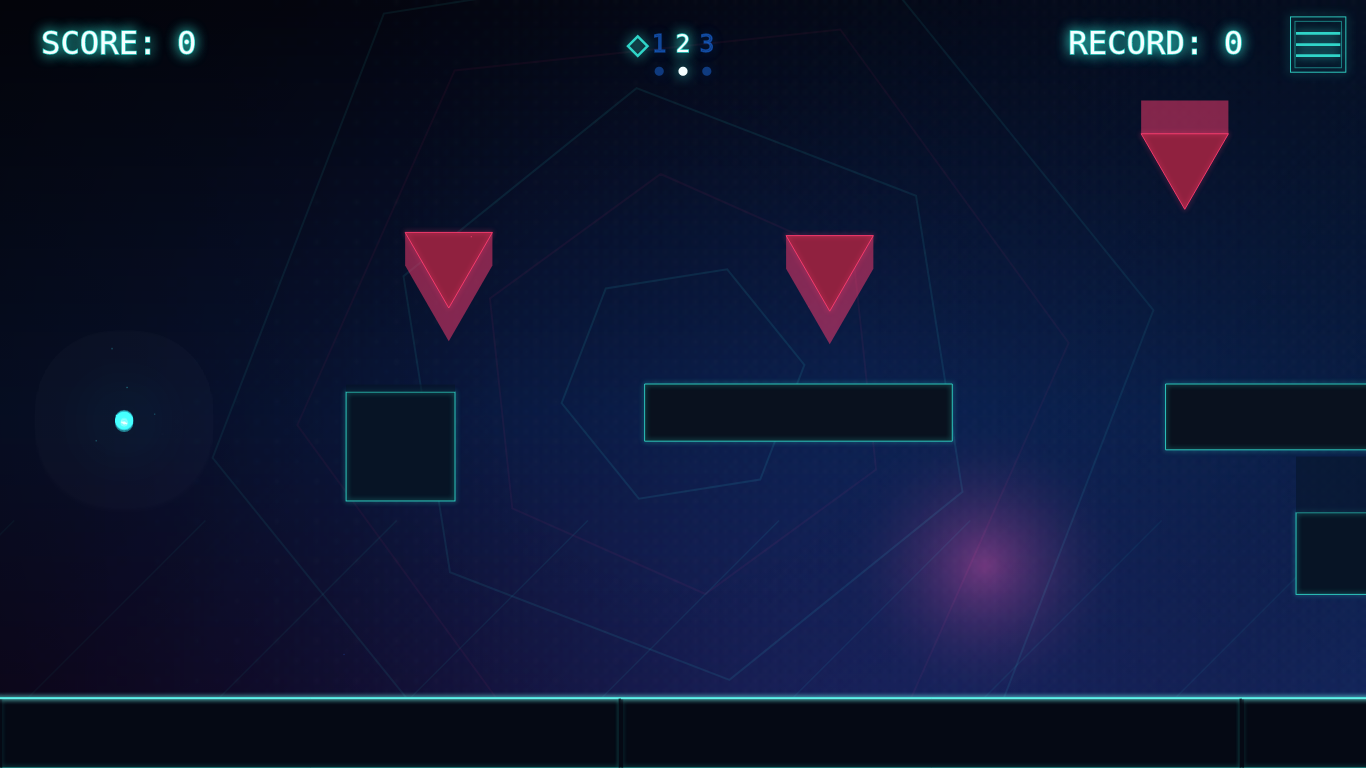
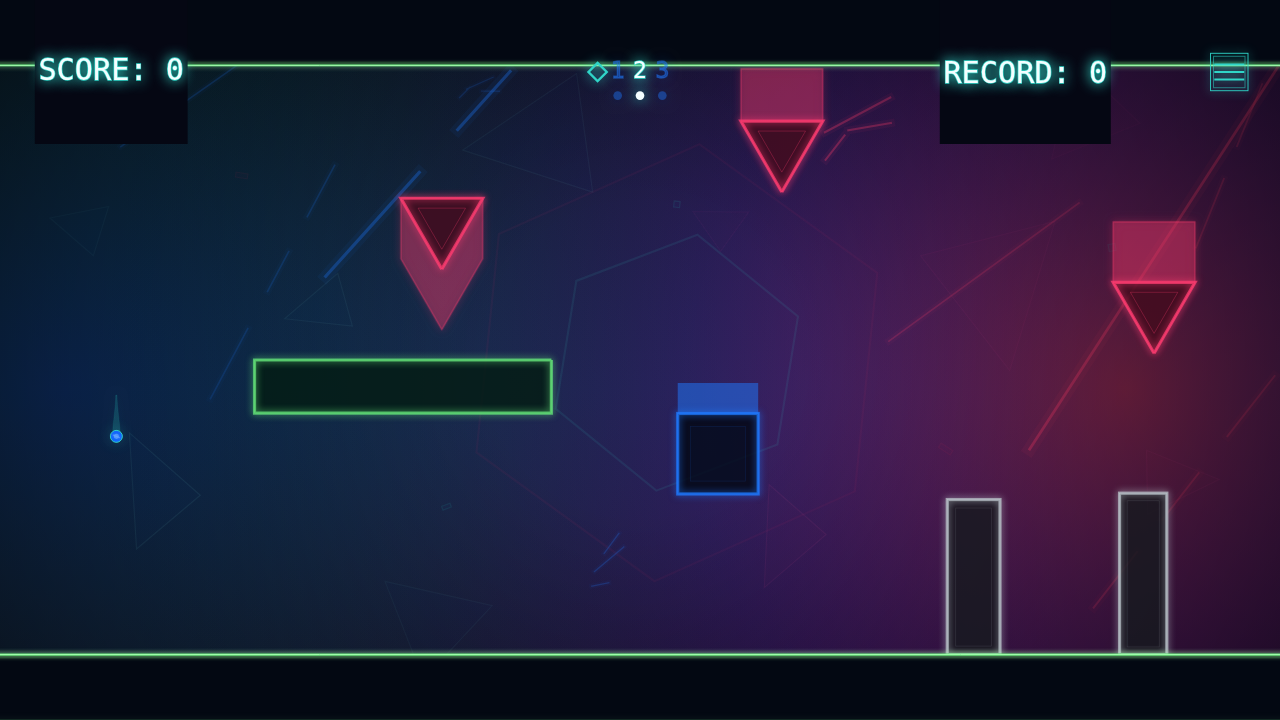
TASK-018: restore bad HUD stage indicator

diff --git a/sprites/scoretext.js b/sprites/scoretext.js
@@ -49,6 +49,9 @@ let scoreText =
 
         this.drawHudText(recordText, recordX, recordY, 'end')
 
+        if (version == 'bad')
+            this.drawStageIndicator(viewWidth, topY, fontSize)
+
         ctx.restore()
     },
     getRecordX: function(viewWidth)

diff --git a/progress.md b/progress.md
@@ -149,3 +149,4 @@ TASK-086: Added four subtle shared depth-background decorative triangle silhouet
 TASK-015: Repositioned and downsized the pause-menu FPS counter row so it no longer overlaps back-to-menu or its toggle; browser checks passed, screenshot inspection found no clipped/overlapped controls, and screenshots/TASK-015.png was refreshed. Gotcha: local static server still emits an unrelated favicon/resource 404, filtered from JS console checks.
 TASK-015: Added fitted button-label sizing so pause labels stay inside visible controls; browser checks confirmed main menu/classic/bad starts, pause resume/FPS/back behavior, aligned button hit areas, no JS console errors, valid JSON, and refreshed screenshots/TASK-015.png. Gotcha: local static server still emits an unrelated resource 404.
 TASK-087: Enlarged the pause panel and relaid out the pause title/buttons/FPS row; five portrait screenshots confirm the title glow stays inside the panel with padding and controls remain readable/clickable. Gotcha: pause FPS is still an on/off button because TASK-088 owns the checkbox conversion.
+TASK-018: Restored the bad-version top-center stage/progress indicator by calling the existing HUD indicator renderer from scoreText.draw(); browser checks passed for bad-version startup, pause/resume/back-to-menu, no JS console errors, screenshot inspection, and refreshed screenshots/TASK-018.png. Gotcha: pause state uses menu.gamePaused=true while menu.visible remains false.
